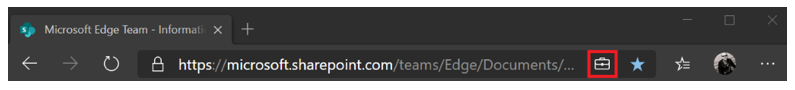
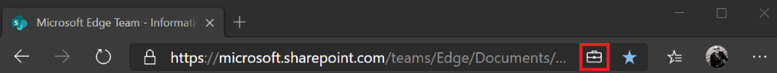
update
tidy up screenshots
run acrolinx

diff --git a/edgeenterprise/microsoft-edge-security-windows-information-protection.md b/edgeenterprise/microsoft-edge-security-windows-information-protection.md
@@ -21,7 +21,7 @@ This article describes how Microsoft Edge supports Windows Information Protectio
 
 ## Overview
 
-Windows Information Protection (WIP) is a Windows 10 feature that helps protect enterprise data from unauthorized or accidental disclosure. Organizations are seeing an increased risk of sharing corporate data outside the workplace. This is caused by the increased use of personal devices and the combination of personal and work related activities on corporate devices.
+Windows Information Protection (WIP) is a Windows 10 feature that helps protect enterprise data from unauthorized or accidental disclosure. Organizations are seeing an increased risk of sharing corporate data outside the workplace. This risk is caused by the increased use of personal devices and the combination of personal and work related activities on corporate devices.
 
 ### Windows Information Protection benefits
 
@@ -29,13 +29,13 @@ WIP provides the following benefits:
 
 - Obvious separation between personal and corporate data, without requiring employees to switch environments or apps. 
 - Additional data protection for existing line-of-business apps without a need to update the apps.
-- The ability to remote wipe corporate data from Intune MDM enrolled devices while leaving personal data unaffected. 
+- The ability to remote wipe corporate data from Intune Mobile Device Management (MDM) enrolled devices while leaving personal data unaffected. 
 - Audit reports for tracking issues and remedial actions. 
 - Integration with your existing management system (for example, Microsoft Intune, Microsoft Endpoint Configuration Manager, or your current mobile device management (MDM) system) to configure, deploy, and manage WIP for your company.
 
 ## WIP policy and protection modes
 
-Using policies, you can configure the 4 protection modes described in the following table. For more information, see [WIP-protection modes](https://docs.microsoft.com/windows/security/information-protection/windows-information-protection/protect-enterprise-data-using-wip#wip-protection-modes).
+Using policies, you can configure the four protection modes described in the following table. For more information, see [WIP-protection modes](https://docs.microsoft.com/windows/security/information-protection/windows-information-protection/protect-enterprise-data-using-wip#wip-protection-modes).
 
 | Mode | Description |
 |------|-------------|
